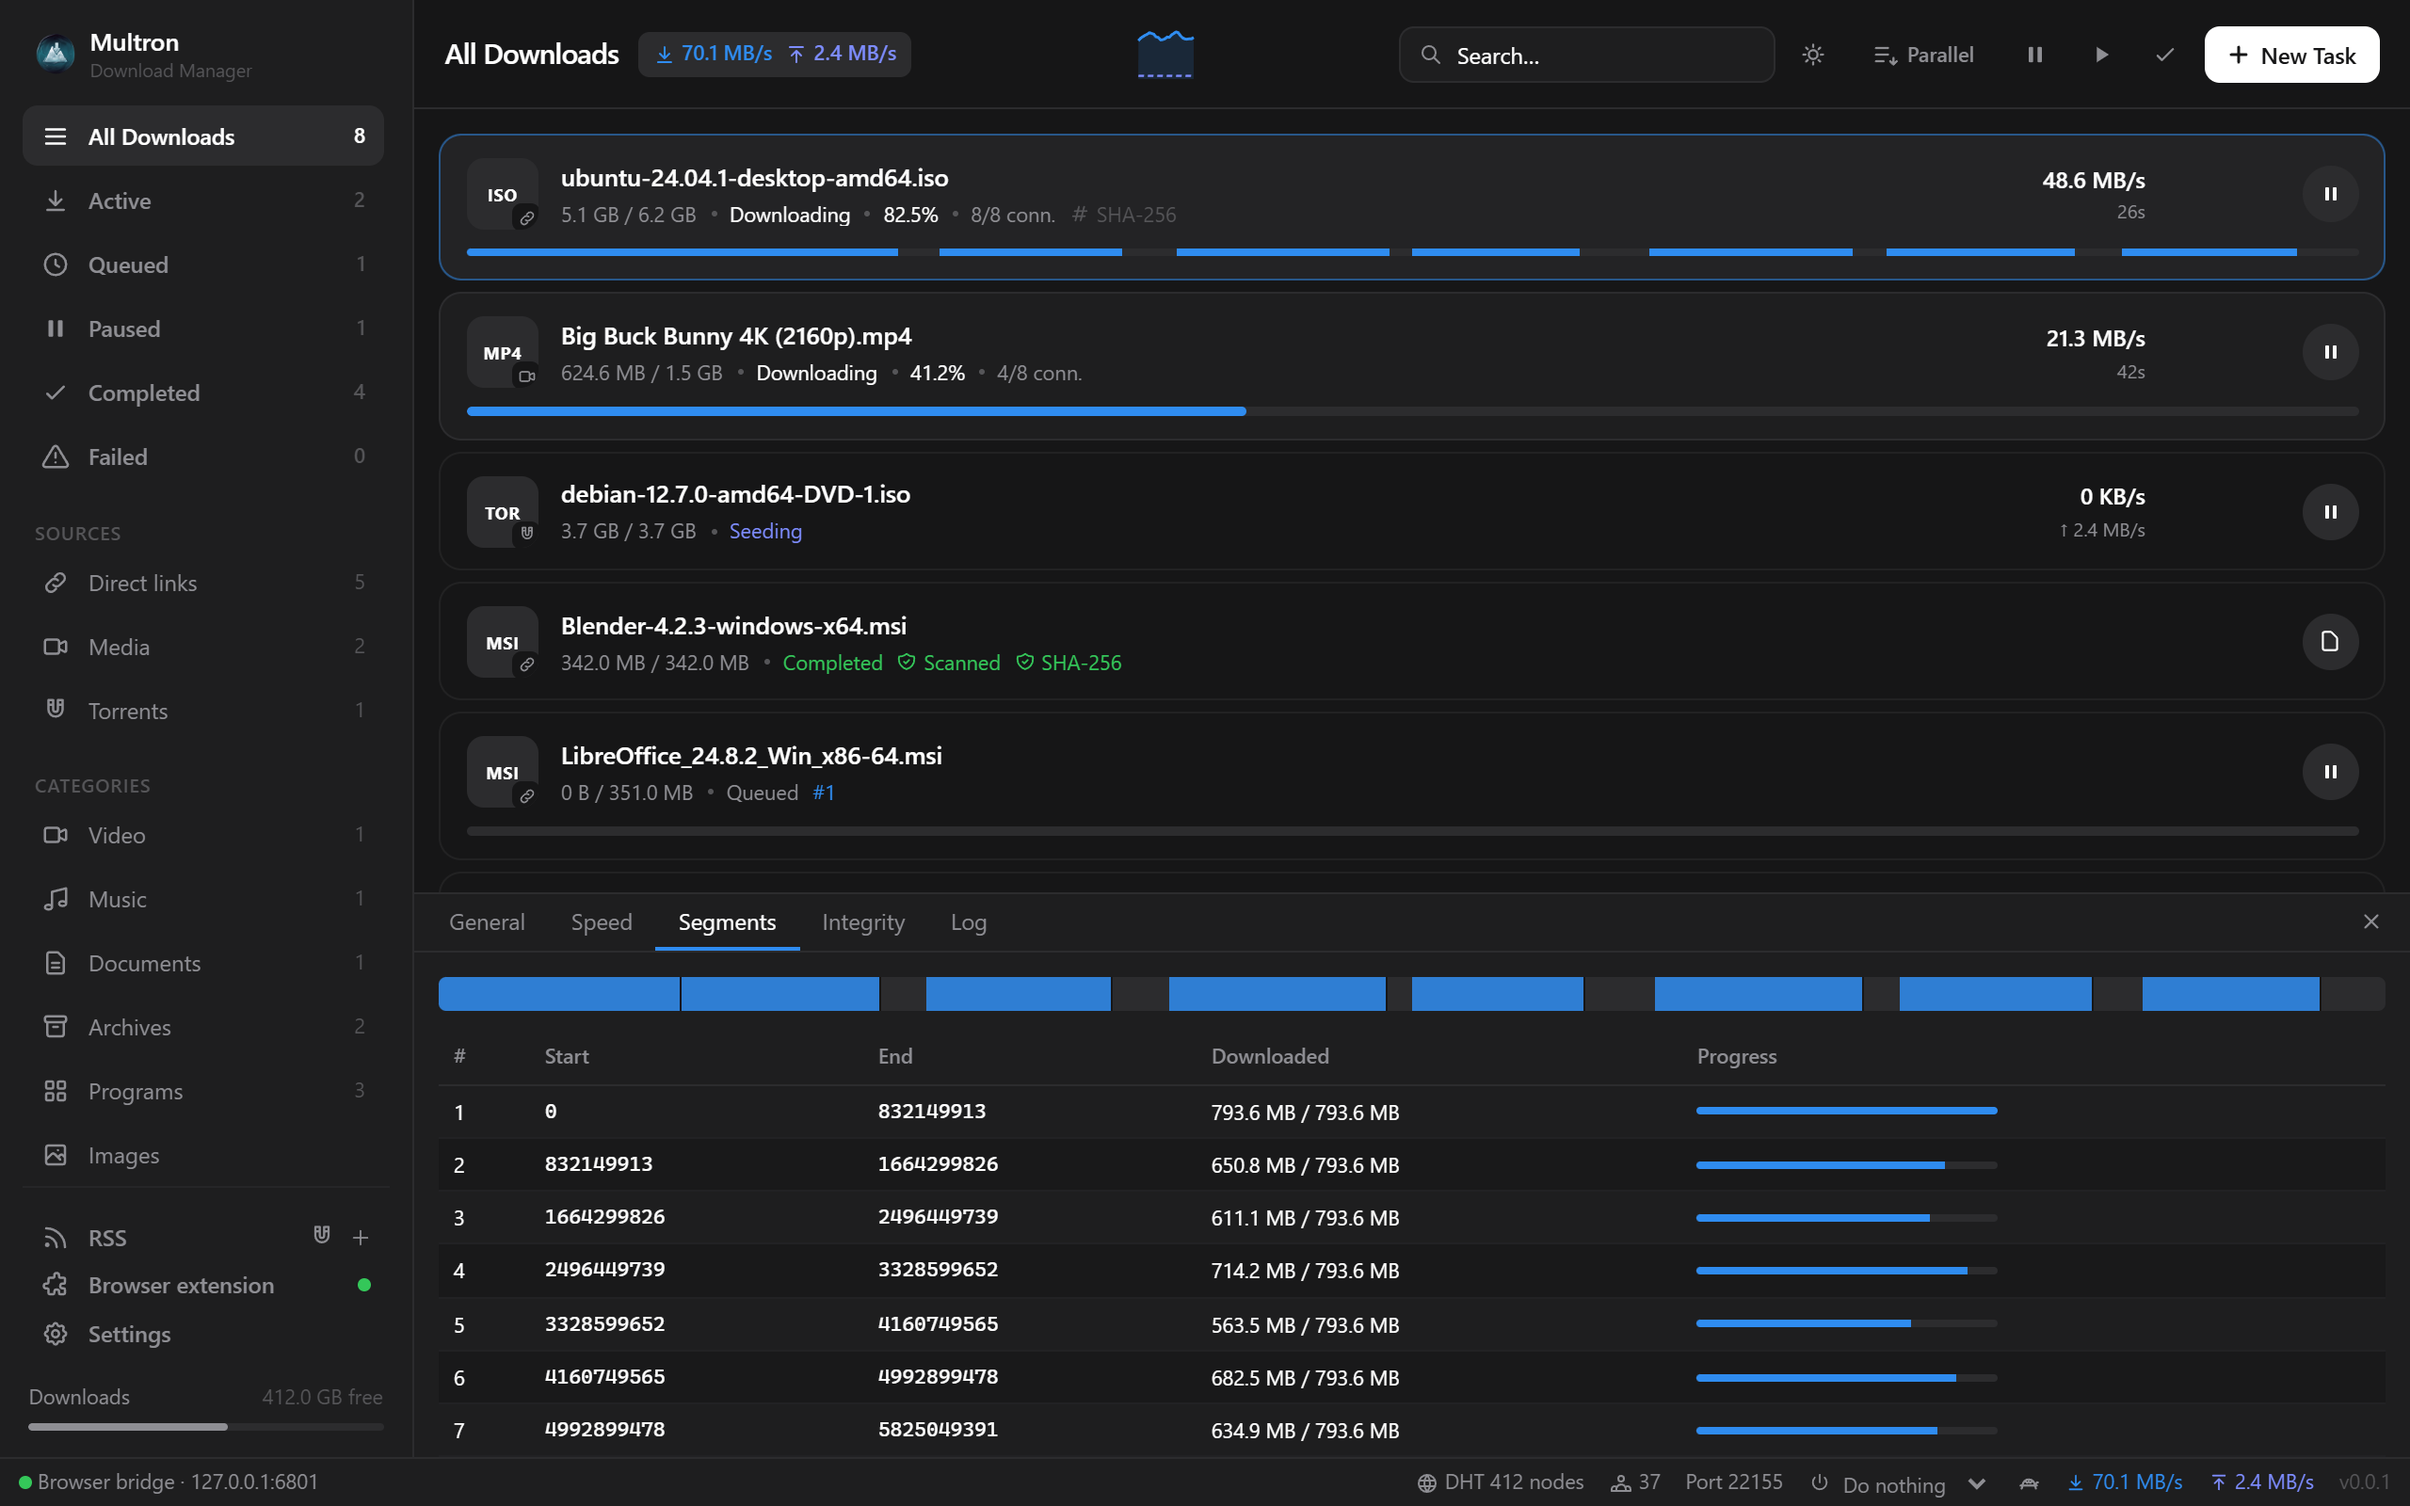
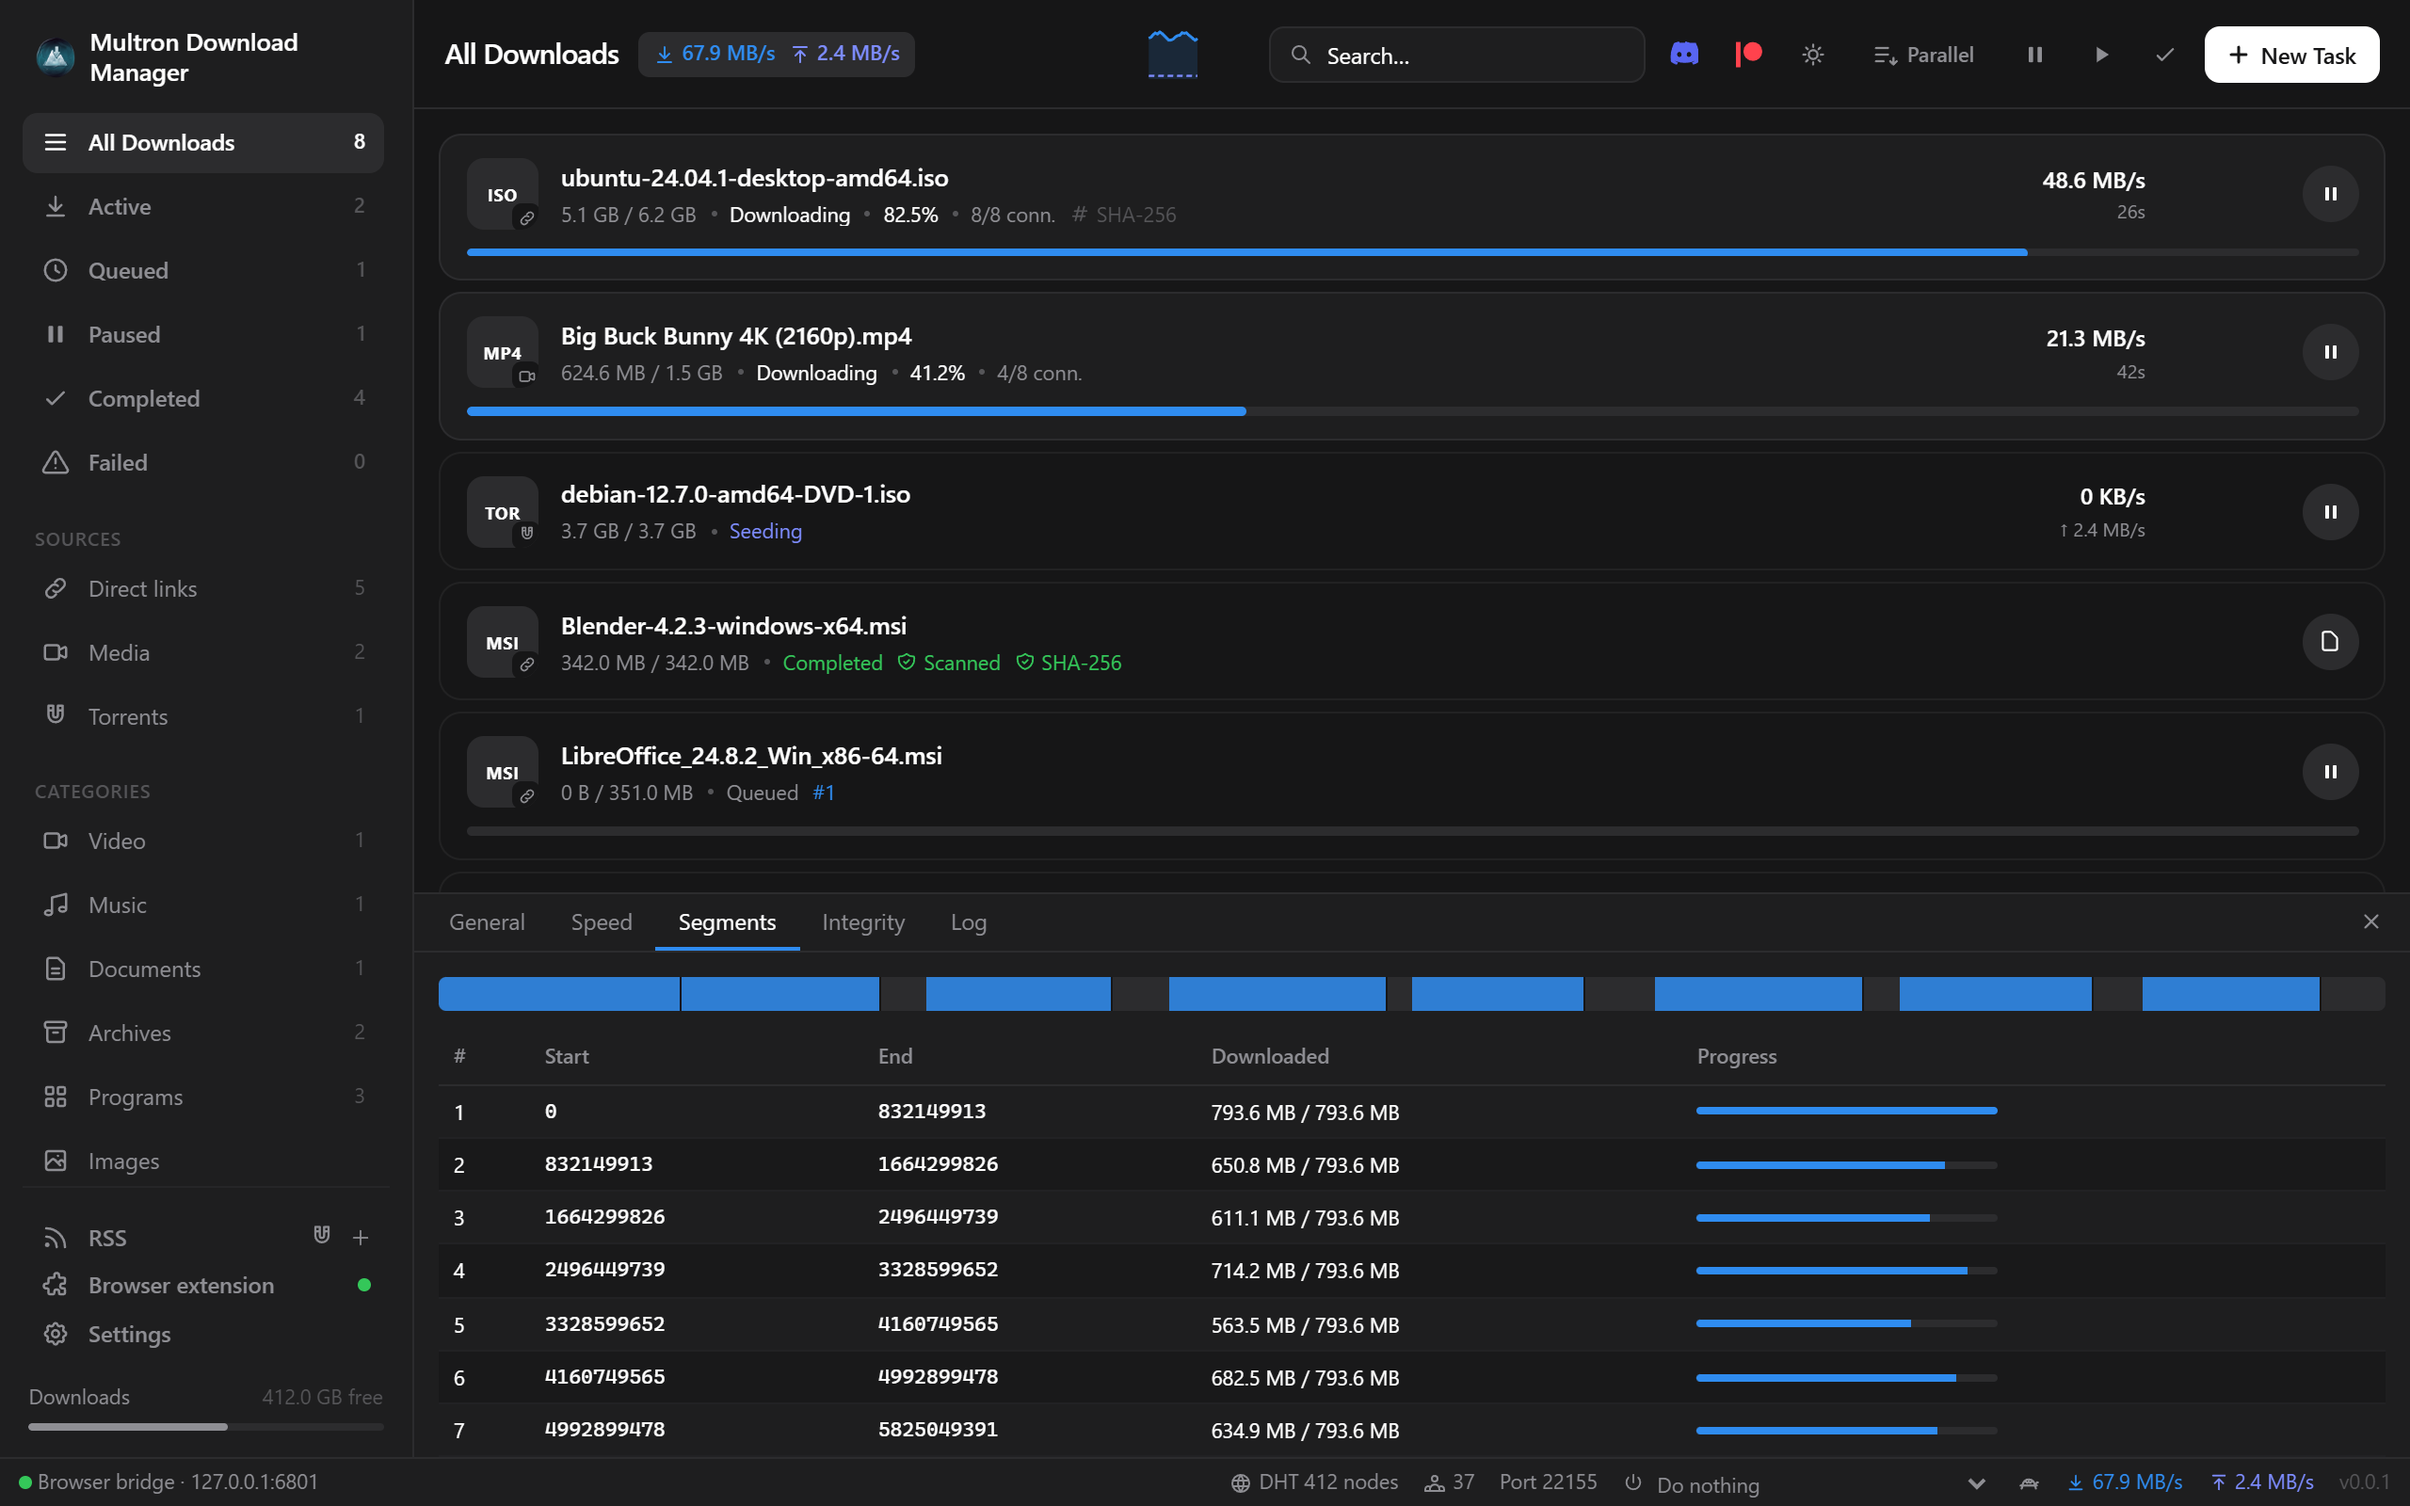
Fix CI build, target Ubuntu 24.04 and simplify the progress bar
- CI: generate the Firefox extension build before tests (fixes missing extension-build/firefox resource)
- Release: build Linux on Ubuntu 24.04 (x64 + arm64) for Linux Mint 22 compatibility
- Release: install Inno Setup only when missing, cache Rust builds on failure
- UI: download rows always show a single progress bar that fills from start to end
- Build: call the Tauri CLI without a shell (fixes Node DEP0190 warning)
- npm test/check now prepare the extension build first
- README and release notes: Linux requirements (glibc 2.39+, libfuse2t64), refreshed screenshots

diff --git a/frontend/src/components/DownloadItem.svelte b/frontend/src/components/DownloadItem.svelte
@@ -65,14 +65,6 @@
           : 'text-muted'
   );
 
-  let barSegments = $derived.by(() => {
-    if (item.kind !== 'http' || !item.total || item.segments.length < 2) return [];
-    return item.segments.map((s) => ({
-      left: (s.start / item.total!) * 100,
-      width: ((s.pos - s.start) / item.total!) * 100
-    }));
-  });
-
   const kindIcon: Record<string, string> = { http: 'link', media: 'film', torrent: 'magnet' };
 
   const speedPresets = [0, 256, 512, 1024, 2048, 5120, 10240];
@@ -261,19 +253,10 @@
 
   {#if item.status !== 'completed'}
     <div class="relative w-full h-[5px] bg-line rounded-[3px] overflow-hidden">
-      {#if barSegments.length && !tool}
-        {#each barSegments as s}
-          <div
-            class="absolute top-0 h-full {item.status === 'active' ? 'bg-accent' : 'bg-dim'}"
-            style="left: {s.left}%; width: {s.width}%"
-          ></div>
-        {/each}
-      {:else}
-        <div
-          class="h-full rounded-[3px] transition-[width] duration-300 {item.status === 'active' ? 'bg-accent' : item.status === 'failed' ? 'bg-bad/60' : 'bg-dim'} {item.status === 'active' && !barTotal ? 'progress-live w-full' : ''}"
-          style={barTotal ? `width: ${pct}%` : ''}
-        ></div>
-      {/if}
+      <div
+        class="h-full rounded-[3px] transition-[width] duration-300 {item.status === 'active' ? 'bg-accent' : item.status === 'failed' ? 'bg-bad/60' : 'bg-dim'} {item.status === 'active' && !barTotal ? 'progress-live w-full' : ''}"
+        style={barTotal ? `width: ${pct}%` : ''}
+      ></div>
     </div>
   {/if}
 </div>

diff --git a/README.md b/README.md
@@ -48,7 +48,7 @@
 | | |
 |---|---|
 | <img src="docs/screenshots/downloads-dark.png" alt="Downloads with the segment view" /> | <img src="docs/screenshots/torrent-dark.png" alt="Torrent seeding with tracker, DHT and LSD sources" /> |
-| **Downloads** — every connection writes to its own range; the bar shows each segment live. | **Torrents** — seeding with tracker, DHT and LSD sources, peers, pieces and more. |
+| **Downloads** — every connection writes to its own range; the progress bar fills from start to end, and the *Segments* tab shows each connection’s range live. | **Torrents** — seeding with tracker, DHT and LSD sources, peers, pieces and more. |
 | <img src="docs/screenshots/settings-light.png" alt="Appearance settings in the light theme" /> | <img src="docs/screenshots/security-dark.png" alt="Security settings with SmartScreen, antivirus and TLS options" /> |
 | **Appearance** — light, dark or system theme, accent colours and transparency. | **Security** — SmartScreen mark, antivirus scan, extension approval, TLS and redirect rules. |
 | <img src="docs/screenshots/downloads-light-tr.png" alt="The app in Turkish with the light theme" /> | |
@@ -120,6 +120,8 @@ Download the file for your system from the [latest release](https://github.com/M
 | Browser extension | `multron-browser-extension-chromium-v<version>.zip` (Chrome, Edge, Brave, Opera, Vivaldi) or `multron-browser-extension-firefox-v<version>.zip` | See [Browser extension](#browser-extension). |
 
 Verify any file with the `SHA256SUMS.txt` attached to the release.
+
+> **Linux:** the packages are built on Ubuntu 24.04 and need glibc 2.39 or newer: Ubuntu 24.04+, Linux Mint 22+, Debian 13+, Fedora 40+ and other distributions of the same age. Older releases such as Ubuntu 22.04, Linux Mint 21 or Debian 12 are not supported.
 
 > **macOS:** builds are not notarized yet. Right-click the app → **Open** the first time, or run `xattr -cr "/Applications/Multron Download Manager.app"`.
 
@@ -277,7 +279,7 @@ The Options window is organised like a classic torrent client, with a searchable
 | **Windows:** Visual Studio Build Tools with “Desktop development with C++”, WebView2 (preinstalled on Windows 11) | |
 | **Windows installer:** [Inno Setup 6](https://jrsoftware.org/isinfo.php) | `winget install -e --id JRSoftware.InnoSetup` |
 | **macOS:** Xcode Command Line Tools | `xcode-select --install` |
-| **Debian/Ubuntu:** | `sudo apt install libwebkit2gtk-4.1-dev libayatana-appindicator3-dev librsvg2-dev patchelf libssl-dev build-essential file` |
+| **Ubuntu 24.04 / Linux Mint 22 / Debian 13:** | `sudo apt install libwebkit2gtk-4.1-dev libayatana-appindicator3-dev librsvg2-dev patchelf libssl-dev build-essential file libfuse2t64` |
 | **Fedora:** | `sudo dnf install webkit2gtk4.1-devel libappindicator-gtk3-devel librsvg2-devel openssl-devel patchelf` and the “C Development Tools and Libraries” group |
 
 ### Run in development

diff --git a/release-notes/v0.0.1.md b/release-notes/v0.0.1.md
@@ -105,7 +105,7 @@ Multron Download Manager is source-available, proprietary software. You may inst
 Pick the file for your system from the table below.
 - **Windows:** the installer adds WebView2 if it is missing.
 - **macOS:** builds are not notarized yet. Right-click the app and choose **Open** the first time.
-- **Linux:** packages are available for apt (`.deb`), dnf (`.rpm`) and as an AppImage, for both x86_64 and arm64.
+- **Linux:** packages are available for apt (`.deb`), dnf (`.rpm`) and as an AppImage, for both x86_64 and arm64. They are built on Ubuntu 24.04 and run on Ubuntu 24.04+, Linux Mint 22+, Debian 13+ and Fedora 40+.
 
 ### Notes
 
